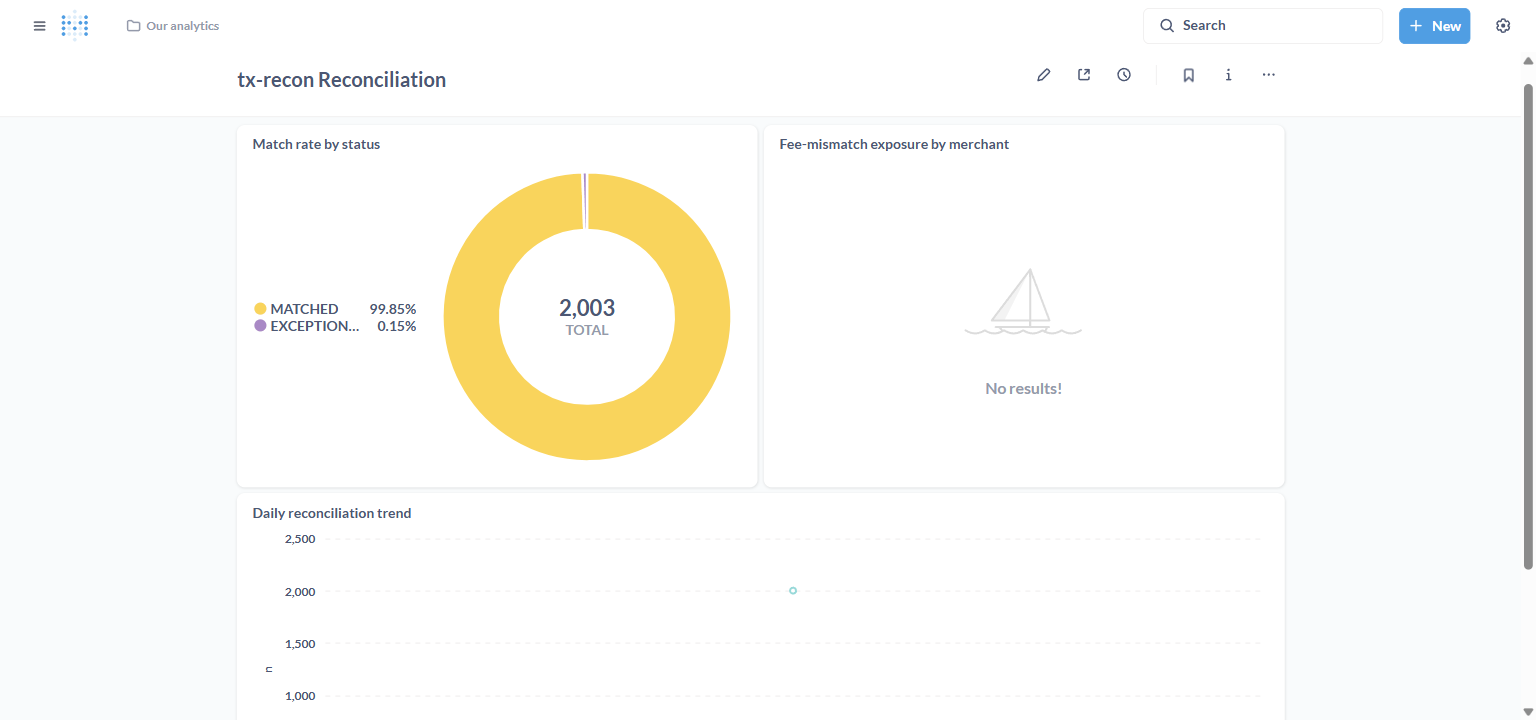
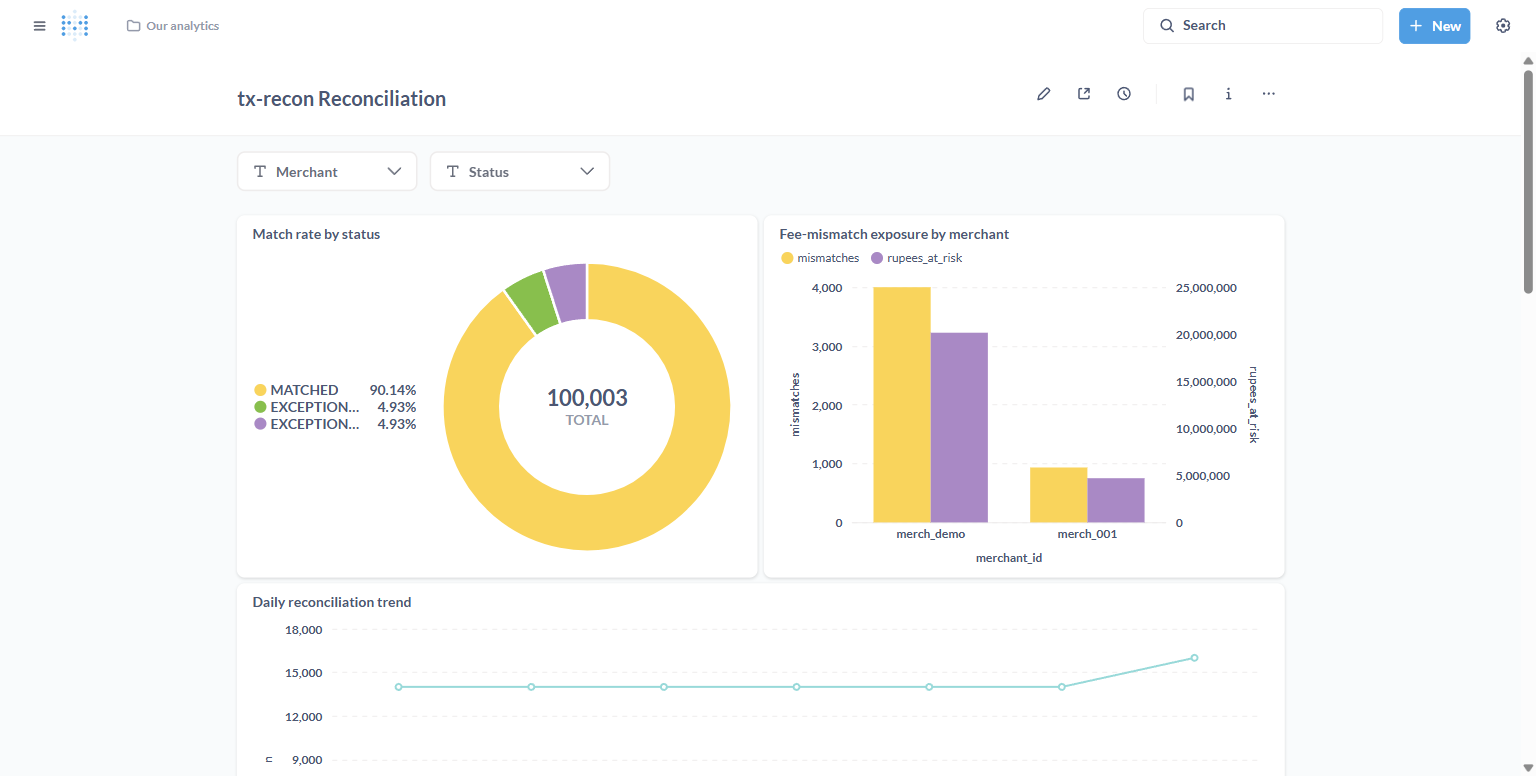
100K realistic dashboard: messy-mix seeder, instrument column, 8 new questions

diff --git a/src/pipeline.py b/src/pipeline.py
@@ -18,9 +18,17 @@ DEMO_MERCHANT = "merch_demo"
 
 
 def _seed_demo_webhooks(
-    spark, table: str, planned: list[tuple[str, int, str]] | list[tuple[str, int, str, str]]
+    spark,
+    table: str,
+    planned: list[tuple[str, int, str]] | list[tuple[str, int, str, str]],
+    skip: set[str] | None = None,
+    ts: str | None = None,
 ) -> int:
-    """Bulk-seed one webhook row per planned triple; re-runnable (MERGE-DELETEs prior rows first)."""
+    """Bulk-seed one webhook row per planned triple; re-runnable (MERGE-DELETEs prior rows first).
+
+    skip: tx ids to leave unseeded (messy orphans -> EXCEPTION_MISSING_WEBHOOK).
+    ts: webhook event timestamp (per-batch date for multi-day trends); defaults to now.
+    """
     from datetime import datetime
 
     # ponytail: DDL duplicated from src/ingestion/ingest_webhooks.py __main__; extract if it changes.
@@ -30,7 +38,8 @@ def _seed_demo_webhooks(
         f"""CREATE TABLE IF NOT EXISTS {table} (
             transaction_id string, amount_paise bigint, gateway_status string,
             timestamp_utc string, merchant_id string, processing_run_id string,
-            reconciliation_status string, bank_ref_id string, ingested_at timestamp
+            reconciliation_status string, bank_ref_id string, ingested_at timestamp,
+            instrument_type string
         ) USING iceberg
         TBLPROPERTIES (
             'write.target-file-size-bytes' = '134217728',
@@ -39,19 +48,26 @@ def _seed_demo_webhooks(
         )"""
     )
     now = datetime.now(UTC)
+    event_ts = ts or now.isoformat()
     rows = []
+    seen: set[str] = set()  # one webhook per tx: dup settlement rows are settlement-side only
     for item in planned:
         if len(item) == 4:  # type: ignore[arg-type]
-            tx, amt, _, merch = item  # type: ignore[misc]
+            tx, amt, inst, merch = item  # type: ignore[misc]
         else:
-            tx, amt, _ = item  # type: ignore[misc]
+            tx, amt, inst = item  # type: ignore[misc]
             merch = DEMO_MERCHANT
-        rows.append((tx, amt, "SUCCESS", now.isoformat(), merch, None, "SUCCESS", None, now))
+        if skip and tx in skip:
+            continue
+        if tx in seen:
+            continue
+        seen.add(tx)
+        rows.append((tx, amt, "SUCCESS", event_ts, merch, None, "SUCCESS", None, now, inst))
     plan_df = spark.createDataFrame(
         rows,
         "transaction_id string, amount_paise long, gateway_status string, timestamp_utc string, "
         "merchant_id string, processing_run_id string, reconciliation_status string, "
-        "bank_ref_id string, ingested_at timestamp",
+        "bank_ref_id string, ingested_at timestamp, instrument_type string",
     )
     plan_df.createOrReplaceTempView("demo_plan")
     spark.sql(
@@ -79,15 +95,72 @@ def _build_demo_plan(num_records: int, seed: int = 42) -> list[tuple[str, int, s
     return planned
 
 
+def _assign_mix(
+    planned: list[tuple[str, int, str, str]], seed: int = 42, batch_date: str | None = None
+) -> tuple[list, dict[str, list[dict]], set[str]]:
+    """Assign one accuracy-mix scenario per planned tx (70/10/5/5/5/2.5/2.5).
+
+    Returns (items, row_opts, orphans): items is planned plus duplicate rows for
+    dup/late scenarios; row_opts maps tx -> per-occurrence {"delta","date"};
+    orphans are tx ids the seeder must skip (no webhook -> MISSING placeholder).
+    """
+    from datetime import datetime, timedelta
+
+    day = batch_date or datetime.now(UTC).strftime("%Y-%m-%d")
+    base = datetime.strptime(day, "%Y-%m-%d")
+
+    def ago(d: int) -> str:
+        return (base - timedelta(days=d)).strftime("%Y-%m-%d")
+
+    rnd = random.Random(seed)  # noqa: S311 — deterministic demo data, not crypto
+    items: list = []
+    row_opts: dict[str, list[dict]] = {}
+    orphans: set[str] = set()
+    for tx, amt, inst, merch in planned:
+        row = (tx, amt, inst, merch)
+        r = rnd.random()
+        opts: list[dict]
+        if r < 0.70:
+            opts = [{}]
+        elif r < 0.80:
+            opts = [{"delta": rnd.choice((-1, 1))}]
+        elif r < 0.85:
+            opts = [{"delta": 50}]
+        elif r < 0.90:
+            opts = [{}]
+            orphans.add(tx)
+        elif r < 0.95:
+            opts = [{}, {}]
+            items.extend([row, row])
+        elif r < 0.975:
+            opts = [{"date": ago(3)}]
+        else:
+            opts = [{"date": ago(2)}, {"date": day}]
+            items.extend([row, row])
+        if r < 0.90 or (0.95 <= r < 0.975):
+            items.append(row)
+        row_opts[tx] = opts
+    return items, row_opts, orphans
+
+
 def check_batch_drift(counts: dict, ds: str | None = None) -> None:
+    """Fail closed if batch statuses don't tile deduped rows (shared cron/DAG).
+
+    batch_* counts join the DEDUPED settlement view 1:1 to the target, so they
+    must tile settlement_rows_deduped exactly. batch_EXCEPTION_DUPLICATE_SETTLEMENT
+    is a diagnostic (rows collapsed), not an outcome — never subtract it.
+    """
     """Fail closed if batch statuses don't tile deduped rows (shared cron/DAG)."""
     batch_n = counts.get("settlement_rows_deduped", 0)
-    batch_total = sum(v for k, v in counts.items() if k.startswith("batch_"))
-    tile_total = batch_total - counts.get("batch_EXCEPTION_DUPLICATE_SETTLEMENT", 0)
-    if batch_n and batch_total and tile_total != batch_n:
+    batch_total = sum(
+        v
+        for k, v in counts.items()
+        if k.startswith("batch_") and k != "batch_EXCEPTION_DUPLICATE_SETTLEMENT"
+    )
+    if batch_n and batch_total and batch_total != batch_n:
         raise RuntimeError(
             f"Batch drift{f' for ds={ds}' if ds else ''}: deduped {batch_n} "
-            f"but batch statuses tile {tile_total} — investigate dedup/window."
+            f"but batch statuses tile {batch_total} — investigate dedup/window."
         )
 
 
@@ -96,6 +169,7 @@ def run_daily(
     num_records: int = 500,
     seed: int = 42,
     demo: bool = False,
+    messy: bool = False,
 ) -> dict:
     """Shared daily entrypoint for cron/main and Airflow DAG (single source of truth)."""
     from src.generators.settlement_generator import generate_settlement_file
@@ -103,6 +177,9 @@ def run_daily(
     from src.validation.validate_settlement import validate_latest_settlement
 
     planned = _build_demo_plan(num_records, seed=seed) if demo else None
+    row_opts, orphans = None, None
+    if planned is not None and messy:
+        planned, row_opts, orphans = _assign_mix(planned, seed=seed, batch_date=date_str)
     spark = None
     if planned is not None:
         from src.common.config import get_spark_session
@@ -113,14 +190,24 @@ def run_daily(
         spark = get_spark_session("DemoSeed")
         try:
             seeded = _seed_demo_webhooks(
-                spark, _qualified_table(get_settings().webhook_table), planned
+                spark,
+                _qualified_table(get_settings().webhook_table),
+                planned,
+                skip=orphans,
+                ts=f"{date_str}T12:00:00+00:00" if date_str else None,
             )
         finally:
             spark.stop()
             spark = None
         logger.info(f"Seeded {seeded} demo webhooks")
     logger.info("Step 1/3: generating settlement file")
-    generate_settlement_file(num_records=num_records, seed=seed, date_str=date_str, planned=planned)
+    generate_settlement_file(
+        num_records=num_records,
+        seed=seed,
+        date_str=date_str,
+        planned=planned,
+        row_opts=row_opts,
+    )
     logger.info("Step 2/3: validating settlement file")
     validate_latest_settlement(date_str=date_str)
     logger.info("Step 3/3: running reconciliation MERGE")
@@ -148,9 +235,18 @@ def main() -> dict:
         action="store_true",
         help="Seed the webhook table from the same plan as the settlement CSV, so the demo MERGE matches.",
     )
+    parser.add_argument(
+        "--messy",
+        action="store_true",
+        help="With --demo: realistic status mix (mismatches, orphans, duplicates) instead of all-MATCHED.",
+    )
     args = parser.parse_args()
     return run_daily(
-        date_str=args.date, num_records=args.num_records, seed=args.seed, demo=args.demo
+        date_str=args.date,
+        num_records=args.num_records,
+        seed=args.seed,
+        demo=args.demo,
+        messy=args.messy,
     )
 
 

diff --git a/src/processing/reconcile.py b/src/processing/reconcile.py
@@ -344,18 +344,21 @@ def run_reconciliation(date_str: str | None = None) -> dict[str, int]:
     ON t.transaction_id = s.transaction_id
     WHEN MATCHED AND t.reconciliation_status = '{EXCEPTION_MISSING_WEBHOOK}' THEN
         UPDATE SET
-            t.bank_ref_id = s.bank_ref_id
+            t.bank_ref_id = s.bank_ref_id,
+            t.instrument_type = s.instrument_type
     WHEN MATCHED AND t.amount_paise IS NULL THEN
         UPDATE SET
             t.reconciliation_status = '{EXCEPTION_FEE_MISMATCH}',
-            t.bank_ref_id = s.bank_ref_id
+            t.bank_ref_id = s.bank_ref_id,
+            t.instrument_type = s.instrument_type
     WHEN MATCHED THEN
         UPDATE SET
             t.reconciliation_status = CASE WHEN ABS((t.amount_paise - ({fee_case_sql}) - ({gst_case_sql})) - s.settled_amount_paise) <= ({tolerance_sql}) THEN '{MATCHED}' ELSE '{EXCEPTION_FEE_MISMATCH}' END,
-            t.bank_ref_id = s.bank_ref_id
+            t.bank_ref_id = s.bank_ref_id,
+            t.instrument_type = s.instrument_type
     WHEN NOT MATCHED THEN
-        INSERT (transaction_id, amount_paise, gateway_status, timestamp_utc, merchant_id, reconciliation_status, bank_ref_id)
-        VALUES (s.transaction_id, s.settled_amount_paise, 'UNKNOWN', current_timestamp(), COALESCE(s.merchant_id, 'UNKNOWN'), '{EXCEPTION_MISSING_WEBHOOK}', s.bank_ref_id)
+        INSERT (transaction_id, amount_paise, gateway_status, timestamp_utc, merchant_id, reconciliation_status, bank_ref_id, instrument_type)
+        VALUES (s.transaction_id, s.settled_amount_paise, 'UNKNOWN', s.settlement_date, COALESCE(s.merchant_id, 'UNKNOWN'), '{EXCEPTION_MISSING_WEBHOOK}', s.bank_ref_id, s.instrument_type)
     """
 
     logger.info("Executing MERGE INTO operation")
@@ -374,7 +377,7 @@ def run_reconciliation(date_str: str | None = None) -> dict[str, int]:
     try:
         spark.sql(
             f"CREATE OR REPLACE VIEW {namespace}.fact_reconciliation AS "
-            "SELECT transaction_id, amount_paise, merchant_id, gateway_status, "
+            "SELECT transaction_id, amount_paise, merchant_id, instrument_type, gateway_status, "
             "reconciliation_status AS status, bank_ref_id, "
             "CAST(timestamp_utc AS TIMESTAMP) AS transacted_at, "
             "CASE WHEN reconciliation_status = 'MATCHED' THEN amount_paise "

diff --git a/src/generators/settlement_generator.py b/src/generators/settlement_generator.py
@@ -20,6 +20,7 @@ def generate_settlement_file(
     date_str: str | None = None,
     planned: list[tuple[str, int, str]] | list[tuple[str, int, str, str]] | None = None,
     merchant_id: str | None = None,
+    row_opts: dict[str, list[dict]] | None = None,
 ) -> str:
     """Generate a synthetic bank settlement CSV. Fee-accurate: net comes from FeeEngine.
 
@@ -28,6 +29,9 @@ def generate_settlement_file(
     first, then builds settlements from the same triples so the demo matches.
     (webhook_ids alone can't match: amounts stay random and unknown to webhooks.)
     When planned tuples have 4 elements, the 4th is merchant_id.
+    row_opts: optional tx_id -> per-occurrence [{"delta": paise, "date": "YYYY-MM-DD"}]
+    overrides for messy-mix seeding (pipeline _assign_mix); dup rows are extra
+    planned entries, the nth occurrence takes row_opts[tx][min(n, len-1)].
     """
     if planned is None and num_records <= 0:
         raise ValueError(f"num_records must be positive, got {num_records}")
@@ -56,6 +60,7 @@ def generate_settlement_file(
         writer.writerow(headers)
 
         items = planned if planned is not None else [None] * num_records
+        seen_n: dict[str, int] = {}
         for item in items:
             if item is not None:
                 # Support 3-tuple (legacy) or 4-tuple (with merchant_id)
@@ -79,11 +84,16 @@ def generate_settlement_file(
                 instrument_type=instrument,
                 merchant_id=merch if merch != "UNKNOWN" else None,
             )
-            net_amount = fee_result.net_paise
+            n = seen_n.get(tx_id, 0)
+            seen_n[tx_id] = n + 1
+            opts = row_opts.get(tx_id, []) if row_opts else []
+            opt = opts[min(n, len(opts) - 1)] if opts else {}
+            net_amount = fee_result.net_paise + opt.get("delta", 0)
+            sdate = opt.get("date", settlement_date)
 
             bank_ref = f"bnk_{uuid.UUID(int=rnd.getrandbits(128)).hex[:12]}"
 
-            writer.writerow([bank_ref, tx_id, net_amount, settlement_date, instrument, merch])
+            writer.writerow([bank_ref, tx_id, net_amount, sdate, instrument, merch])
 
     logger.info(f"Generated {num_records} settlement records in {output_file}")
     return output_file

diff --git a/tests/test_pipeline_unit.py b/tests/test_pipeline_unit.py
@@ -29,6 +29,32 @@ def test_seed_demo_webhooks_3_and_4_tuple():
     assert spark.createDataFrame.call_count == 1
 
 
+def test_assign_mix_tiles_and_generates(tmp_path):
+    import csv
+
+    from src.generators.settlement_generator import generate_settlement_file
+    from src.pipeline import _assign_mix
+
+    planned = _build_demo_plan(1000, seed=7)
+    items, row_opts, orphans = _assign_mix(planned, seed=7, batch_date="2026-09-10")
+    assert len(row_opts) == 1000 and set(row_opts) == {t[0] for t in planned}
+    assert len(items) == 1000 + sum(len(o) - 1 for o in row_opts.values())
+    assert 20 <= len(orphans) <= 80  # ~5% with seed tolerance
+    assert _assign_mix(planned, seed=7, batch_date="2026-09-10")[1] == row_opts
+
+    out = generate_settlement_file(
+        seed=7, date_str="2026-09-10", planned=items, row_opts=row_opts, output_dir=str(tmp_path)
+    )
+    with open(out) as f:
+        rows = list(csv.DictReader(f))
+    assert len(rows) == len(items)
+    by_tx: dict[str, list] = {}
+    for r in rows:
+        by_tx.setdefault(r["transaction_id"], []).append(r)
+    assert any(len(v) == 2 for v in by_tx.values())  # dup/late extras written
+    assert all(r["settlement_date"] >= "2026-09-07" for r in rows)  # ooo backdate bounded
+
+
 def test_main_drift_and_demo_warnings():
     counts = {"settlement_rows_deduped": 10, "batch_MATCHED": 6, "batch_EXCEPTION_FEE_MISMATCH": 4}
     with (

diff --git a/tests/validation/test_validate_settlement.py b/tests/validation/test_validate_settlement.py
@@ -95,10 +95,10 @@ def test_schema_validates_correct_data():
     settlement_schema.validate(df, lazy=True)
 
 
-def test_schema_rejects_duplicate_ids(invalid_csv_duplicate_ids):
+def test_schema_allows_duplicate_ids(invalid_csv_duplicate_ids):
+    # Dup detection lives in reconcile dedup (counted), not validation.
     df = pd.read_csv(invalid_csv_duplicate_ids / "data" / "settlement_dupes.csv")
-    with pytest.raises(SchemaErrors):
-        settlement_schema.validate(df, lazy=True)
+    settlement_schema.validate(df, lazy=True)
 
 
 def test_schema_rejects_negative_amount(invalid_csv_negative_amount):
@@ -117,9 +117,9 @@ def test_validate_latest_settlement_success(valid_csv):
     validate_latest_settlement(project_root=str(valid_csv))
 
 
-def test_validate_latest_settlement_failure(invalid_csv_duplicate_ids):
+def test_validate_latest_settlement_failure(invalid_csv_negative_amount):
     with pytest.raises(SettlementValidationError):
-        validate_latest_settlement(project_root=str(invalid_csv_duplicate_ids))
+        validate_latest_settlement(project_root=str(invalid_csv_negative_amount))
 
 
 def test_validate_latest_settlement_no_file(tmp_path):

diff --git a/src/validation/settlement_schema.py b/src/validation/settlement_schema.py
@@ -13,7 +13,8 @@ settlement_schema = pa.DataFrameSchema(
     {
         "transaction_id": pa.Column(
             str,
-            unique=True,
+            # ponytail: dup detection lives in reconcile dedup (counted), not here — unique=True would quarantine whole files.
+            unique=False,
             nullable=False,
             checks=[Check.str_matches(r"^[A-Za-z0-9_]{4,64}$")],
         ),

diff --git a/src/ingestion/ingest_webhooks.py b/src/ingestion/ingest_webhooks.py
@@ -119,7 +119,8 @@ if __name__ == "__main__":
             processing_run_id string,
             reconciliation_status string,
             bank_ref_id string,
-            ingested_at timestamp
+            ingested_at timestamp,
+            instrument_type string
         ) USING iceberg
         TBLPROPERTIES (
             'write.target-file-size-bytes' = '134217728',

diff --git a/src/validation/settlement_schema_pl.py b/src/validation/settlement_schema_pl.py
@@ -8,7 +8,8 @@ settlement_schema_pl = pa.DataFrameSchema(
     {
         "transaction_id": pa.Column(
             str,
-            unique=True,
+            # ponytail: dup detection lives in reconcile dedup (counted), not here.
+            unique=False,
             nullable=False,
             checks=[Check.str_matches(r"^[A-Za-z0-9_]{4,64}$")],
         ),
